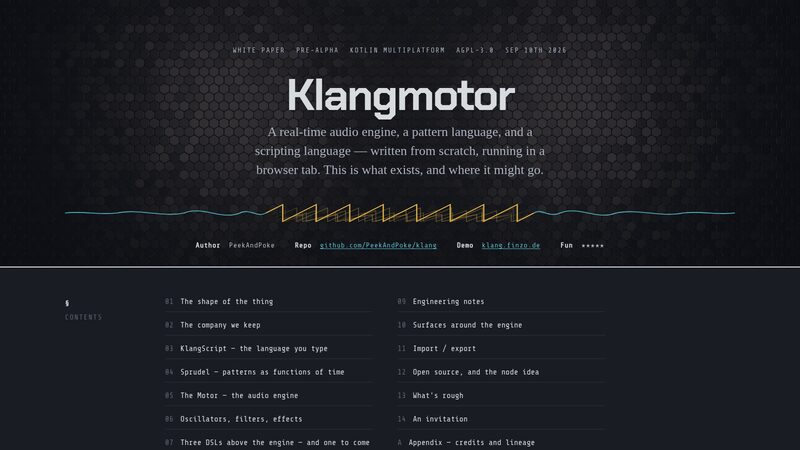
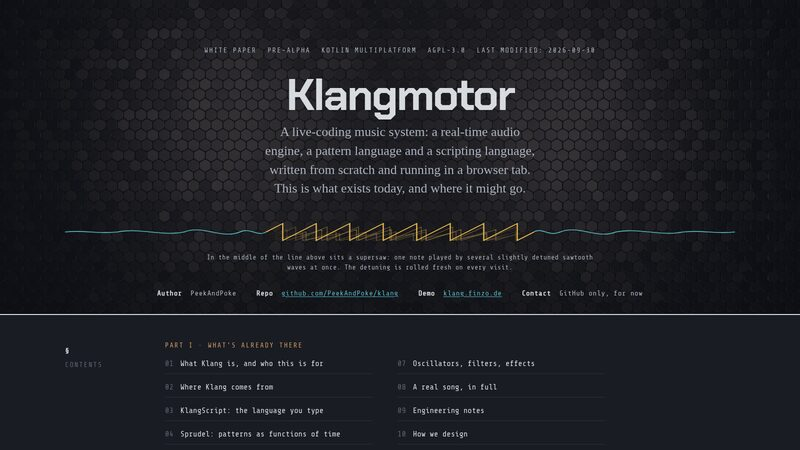
dev status: a card for the blog, after the other three
The card opens /blog/index.html in a new tab like the others. previews.sh now maps each
image to its page file, so the blog index gets its preview; the mission-log and
whitepaper previews are refreshed with it.

Claude-Session: https://claude.ai/code/session_017L4BxwZPADJQ7hK1ja4jUd

diff --git a/src/jsMain/kotlin/pages/DevStatusPage.kt b/src/jsMain/kotlin/pages/DevStatusPage.kt
@@ -47,8 +47,9 @@ fun Tag.DevStatusPage() = comp {
 
 /**
  * Where Klang stands: cards for the static pages next to the SPA (the topic map, the mission log,
- * the white paper). The pages live in `src/jsMain/resources`, built by `console/dev-status/build.py`,
- * their preview images by `console/dev-status/previews.sh`.
+ * the white paper, the blog). The pages live in `src/jsMain/resources`, built by
+ * `console/dev-status/build.py` and `console/blog/build.py`, their preview images by
+ * `console/dev-status/previews.sh`.
  */
 class DevStatusPage(ctx: NoProps) : PureComponent(ctx) {
 
@@ -88,6 +89,14 @@ class DevStatusPage(ctx: NoProps) : PureComponent(ctx) {
             description = "How Klangmotor works: the pattern language, the scripting language, the audio engine " +
                     "and the wire between them. What exists, and where it might go.",
             image = "/images/dev-status/whitepaper.jpg",
+        ),
+        Entry(
+            path = "/blog/index.html",
+            title = "Blog",
+            kind = "Posts",
+            description = "Longer stories from building Klang: a bug or a measurement, what we tried, and what " +
+                    "we learned along the way. Still drafts, written as we go.",
+            image = "/images/dev-status/blog.jpg",
         ),
     )
 
